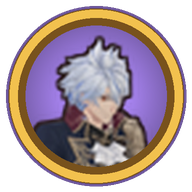
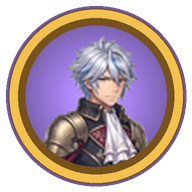
Экипаж: Рэн в новом рисованном облике (фигура из исходного рисунка, 600 px). Главная: мип-уровни для рисунков корабля — край не рябит в качке

Changed region(s): [[0.1562, 0.1562, 0.7812, 0.875]]

diff --git a/crates/game/src/menu.rs b/crates/game/src/menu.rs
@@ -249,7 +249,8 @@ pub fn plugin(app: &mut App) {
                     .or_else(in_state(Screen::Activities)),
             ),
         )
-        .add_systems(Update, count_victory.run_if(in_state(Screen::Battle)));
+        .add_systems(Update, count_victory.run_if(in_state(Screen::Battle)))
+        .add_systems(Update, ship_mips);
     #[cfg(feature = "dev")]
     app.add_systems(Update, dev_hull_key.run_if(in_state(Screen::Menu)));
 }
@@ -1802,6 +1803,95 @@ fn frame_ship(
         transform.translation = Val2::px(slide.by.x * away, slide.by.y * away);
         vis.set_if_neq(shown(away > 0.98));
     }
+}
+
+/// Рисунки корабля (1024 px) на главной сжаты втрое и качаются: без мип-уровней край рябит
+/// и мерцает. Bevy их сам не строит — строим при загрузке картинок из `ship/`.
+fn ship_mips(
+    mut events: MessageReader<AssetEvent<Image>>,
+    mut images: ResMut<Assets<Image>>,
+    server: Res<AssetServer>,
+) {
+    for event in events.read() {
+        let AssetEvent::LoadedWithDependencies { id } = event else {
+            continue;
+        };
+        let ours = server
+            .get_path(*id)
+            .is_some_and(|p| p.path().starts_with("ship"));
+        if !ours {
+            continue;
+        }
+        let Some(mut image) = images.get_mut(*id) else {
+            continue;
+        };
+        add_mips(&mut image);
+    }
+}
+
+fn add_mips(image: &mut Image) {
+    use bevy::image::ImageSampler;
+    use bevy::render::render_resource::TextureFormat;
+    let desc = &image.texture_descriptor;
+    let srgb = match desc.format {
+        TextureFormat::Rgba8UnormSrgb => true,
+        TextureFormat::Rgba8Unorm => false,
+        _ => return,
+    };
+    if desc.mip_level_count > 1 || desc.size.depth_or_array_layers > 1 {
+        return;
+    }
+    let Some(base) = image.data.as_ref() else {
+        return;
+    };
+    let (mut w, mut h) = (desc.size.width as usize, desc.size.height as usize);
+    // Усреднение — в линейном свете и с весом по альфе: прозрачный фон не красит край.
+    let to_lin = |c: u8| {
+        let c = c as f32 / 255.0;
+        if srgb { c.powf(2.2) } else { c }
+    };
+    let to_byte = |c: f32| {
+        let c = if srgb { c.powf(1.0 / 2.2) } else { c };
+        (c * 255.0).round().clamp(0.0, 255.0) as u8
+    };
+    let mut level: Vec<[f32; 4]> = base
+        .as_chunks::<4>()
+        .0
+        .iter()
+        .map(|p| {
+            let a = p[3] as f32 / 255.0;
+            [to_lin(p[0]) * a, to_lin(p[1]) * a, to_lin(p[2]) * a, a]
+        })
+        .collect();
+    let mut data = base.clone();
+    let mut levels = 1;
+    while w > 1 || h > 1 {
+        let (nw, nh) = ((w / 2).max(1), (h / 2).max(1));
+        let mut next = vec![[0.0f32; 4]; nw * nh];
+        for y in 0..nh {
+            for x in 0..nw {
+                let mut sum = [0.0f32; 4];
+                for (dx, dy) in [(0, 0), (1, 0), (0, 1), (1, 1)] {
+                    let p = level[(2 * y + dy).min(h - 1) * w + (2 * x + dx).min(w - 1)];
+                    for c in 0..4 {
+                        sum[c] += p[c] / 4.0;
+                    }
+                }
+                next[y * nw + x] = sum;
+            }
+        }
+        for p in &next {
+            let a = p[3];
+            let un = |c: f32| if a > 0.0 { c / a } else { 0.0 };
+            data.extend([to_byte(un(p[0])), to_byte(un(p[1])), to_byte(un(p[2]))]);
+            data.push((a * 255.0).round() as u8);
+        }
+        (level, w, h) = (next, nw, nh);
+        levels += 1;
+    }
+    image.data = Some(data);
+    image.texture_descriptor.mip_level_count = levels;
+    image.sampler = ImageSampler::linear();
 }
 
 /// Сдвиг на осмотре: корабль можно двигать, пока его край не отойдёт от края экрана дальше

diff --git a/tools/make_ui.py b/tools/make_ui.py
@@ -13,6 +13,7 @@
 """
 
 import json
+import sys
 from pathlib import Path
 
 import numpy as np
@@ -226,7 +227,17 @@ def medallion(hero, element, rarity, name, anim, size=192):
 
 
 def figure(hero, anim):
-    """Фигура героя во весь рост (первый кадр позы), обрезанная по рисунку."""
+    """Фигура героя во весь рост, обрезанная по рисунку. Есть исходный рисунок стойки
+    (art/2d/<id>/idle.png, не в git) — из него в высоту 600: чётче кадра боевого листа."""
+    art = Path("art/2d") / hero / "idle.png"
+    if art.exists():
+        sys.path.insert(0, str(Path(__file__).parent / "sprites"))
+        from painted_frames import cutout
+
+        frame = cutout(art)
+        frame = frame.crop(frame.getbbox())
+        k = 600 / frame.height
+        return frame.resize((round(frame.width * k), 600), Image.LANCZOS)
     info = anim.get(hero)
     path = UNITS / f"{hero}.png"
     if not info or not path.exists():
